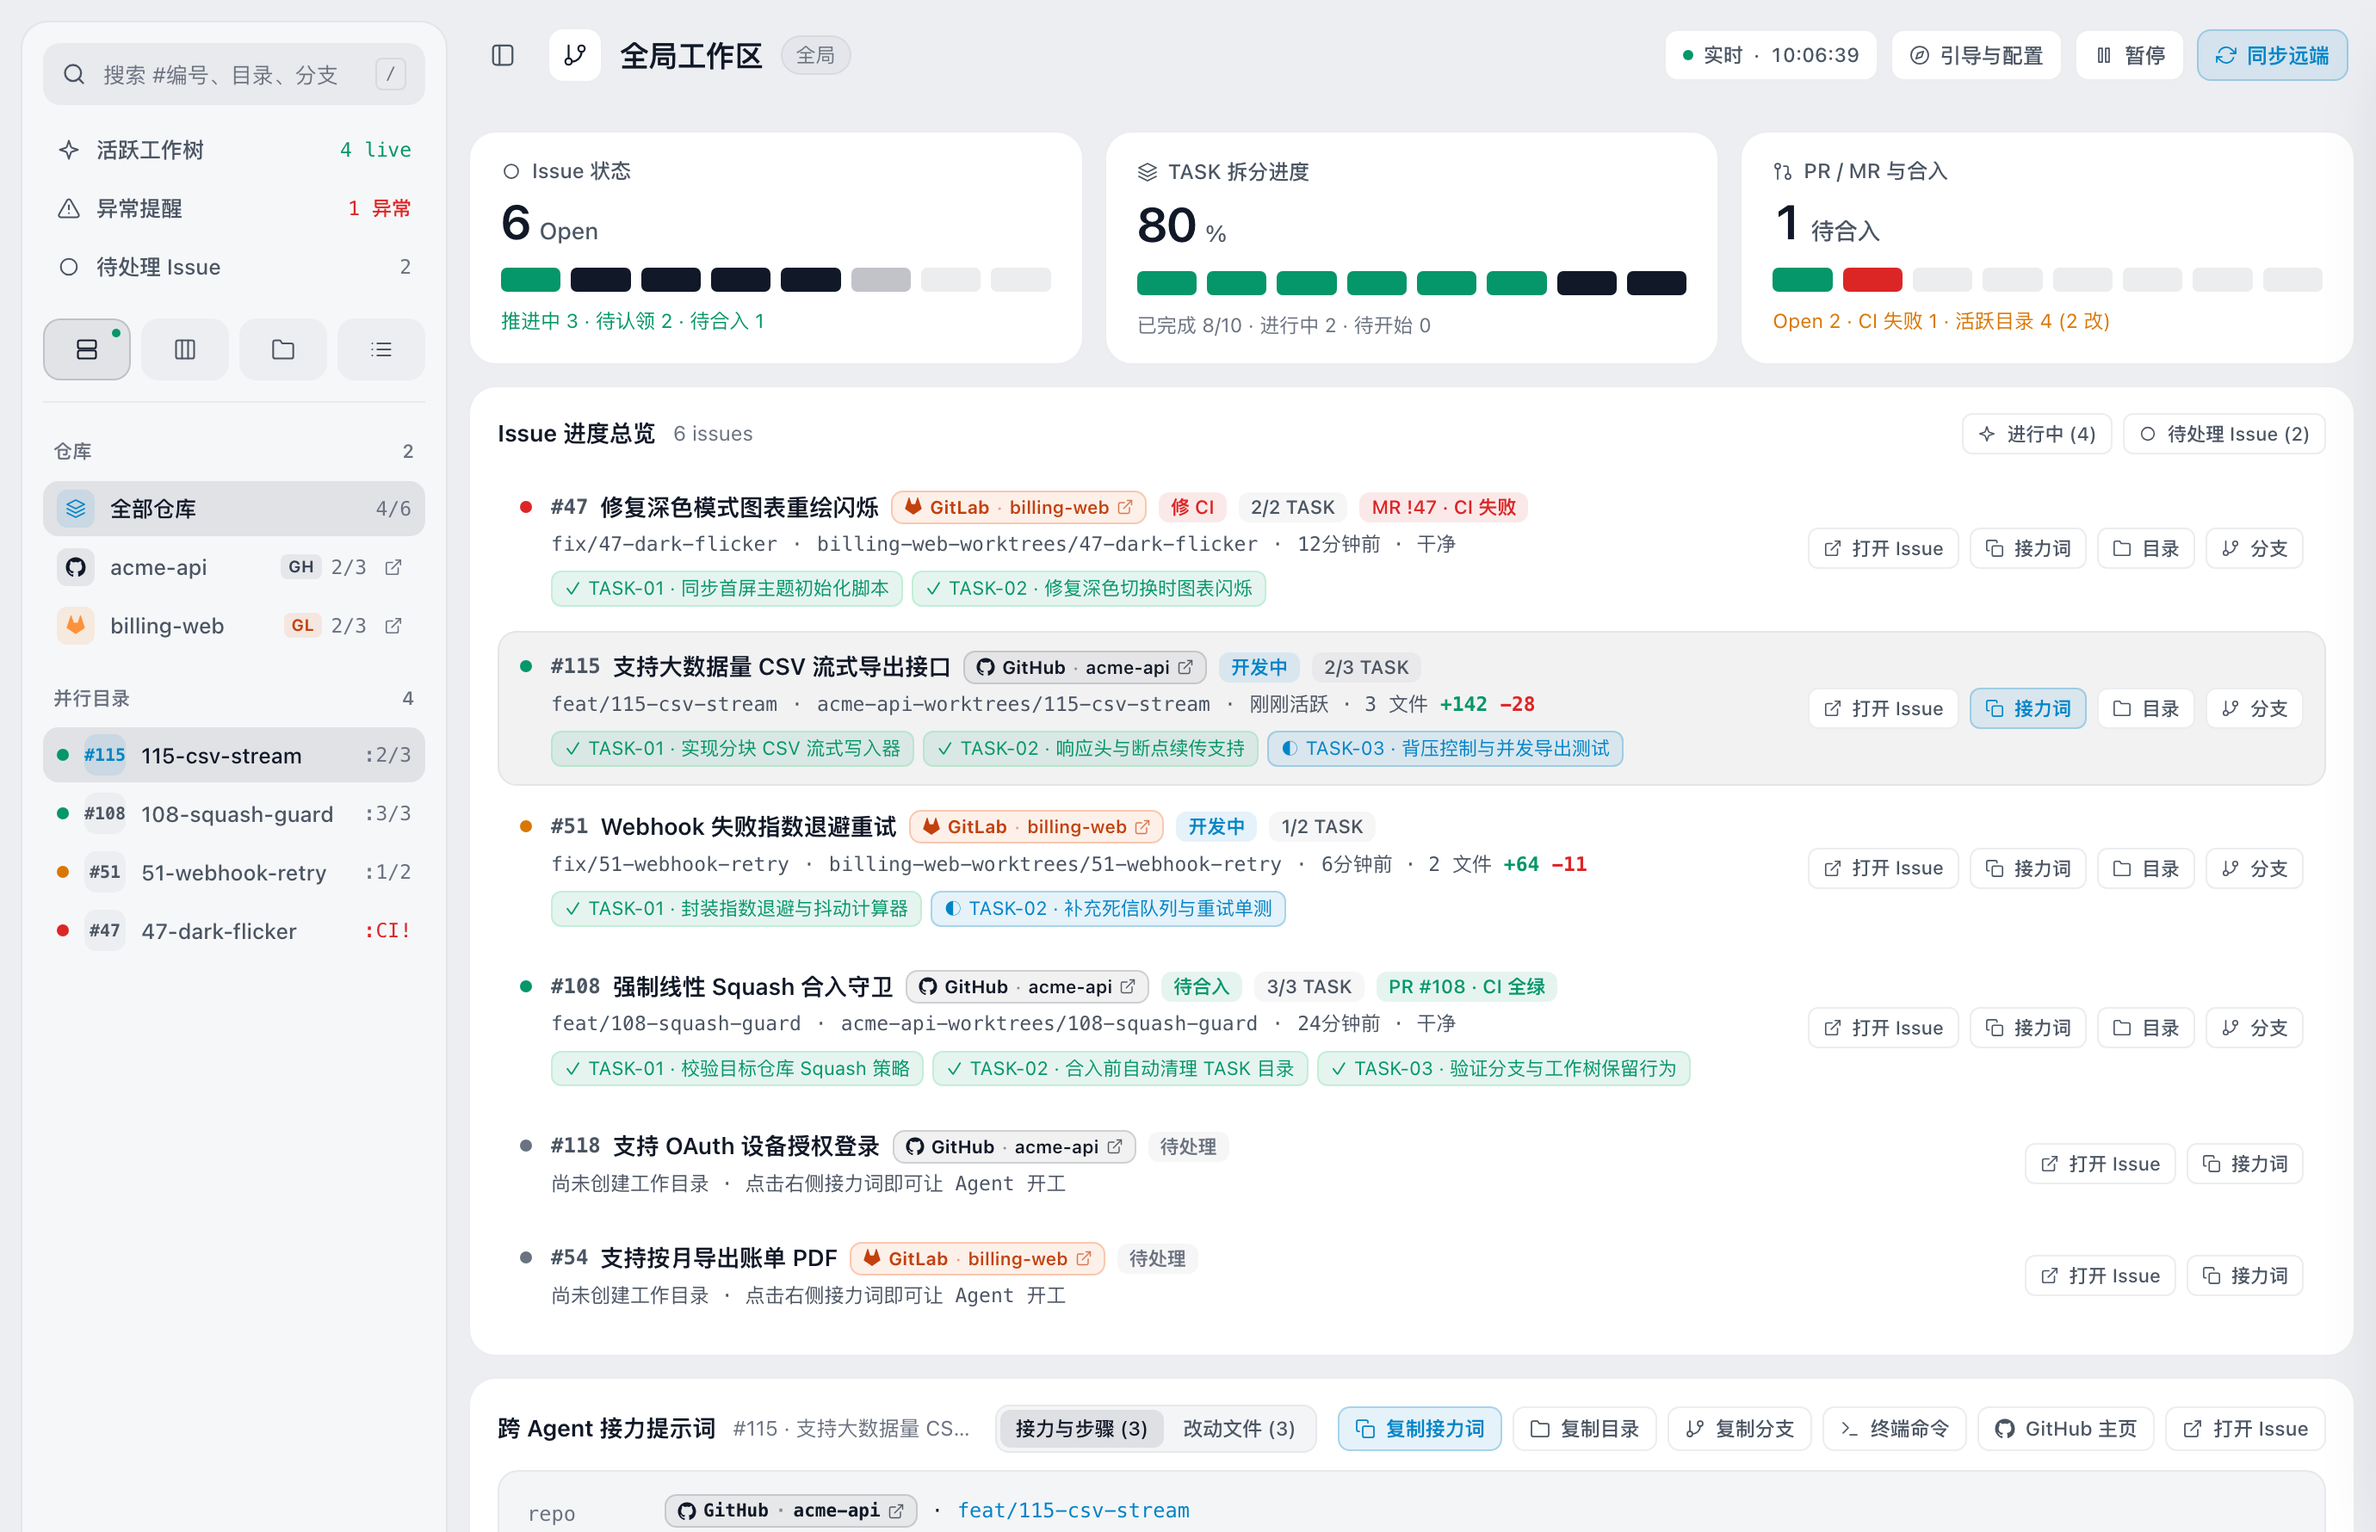
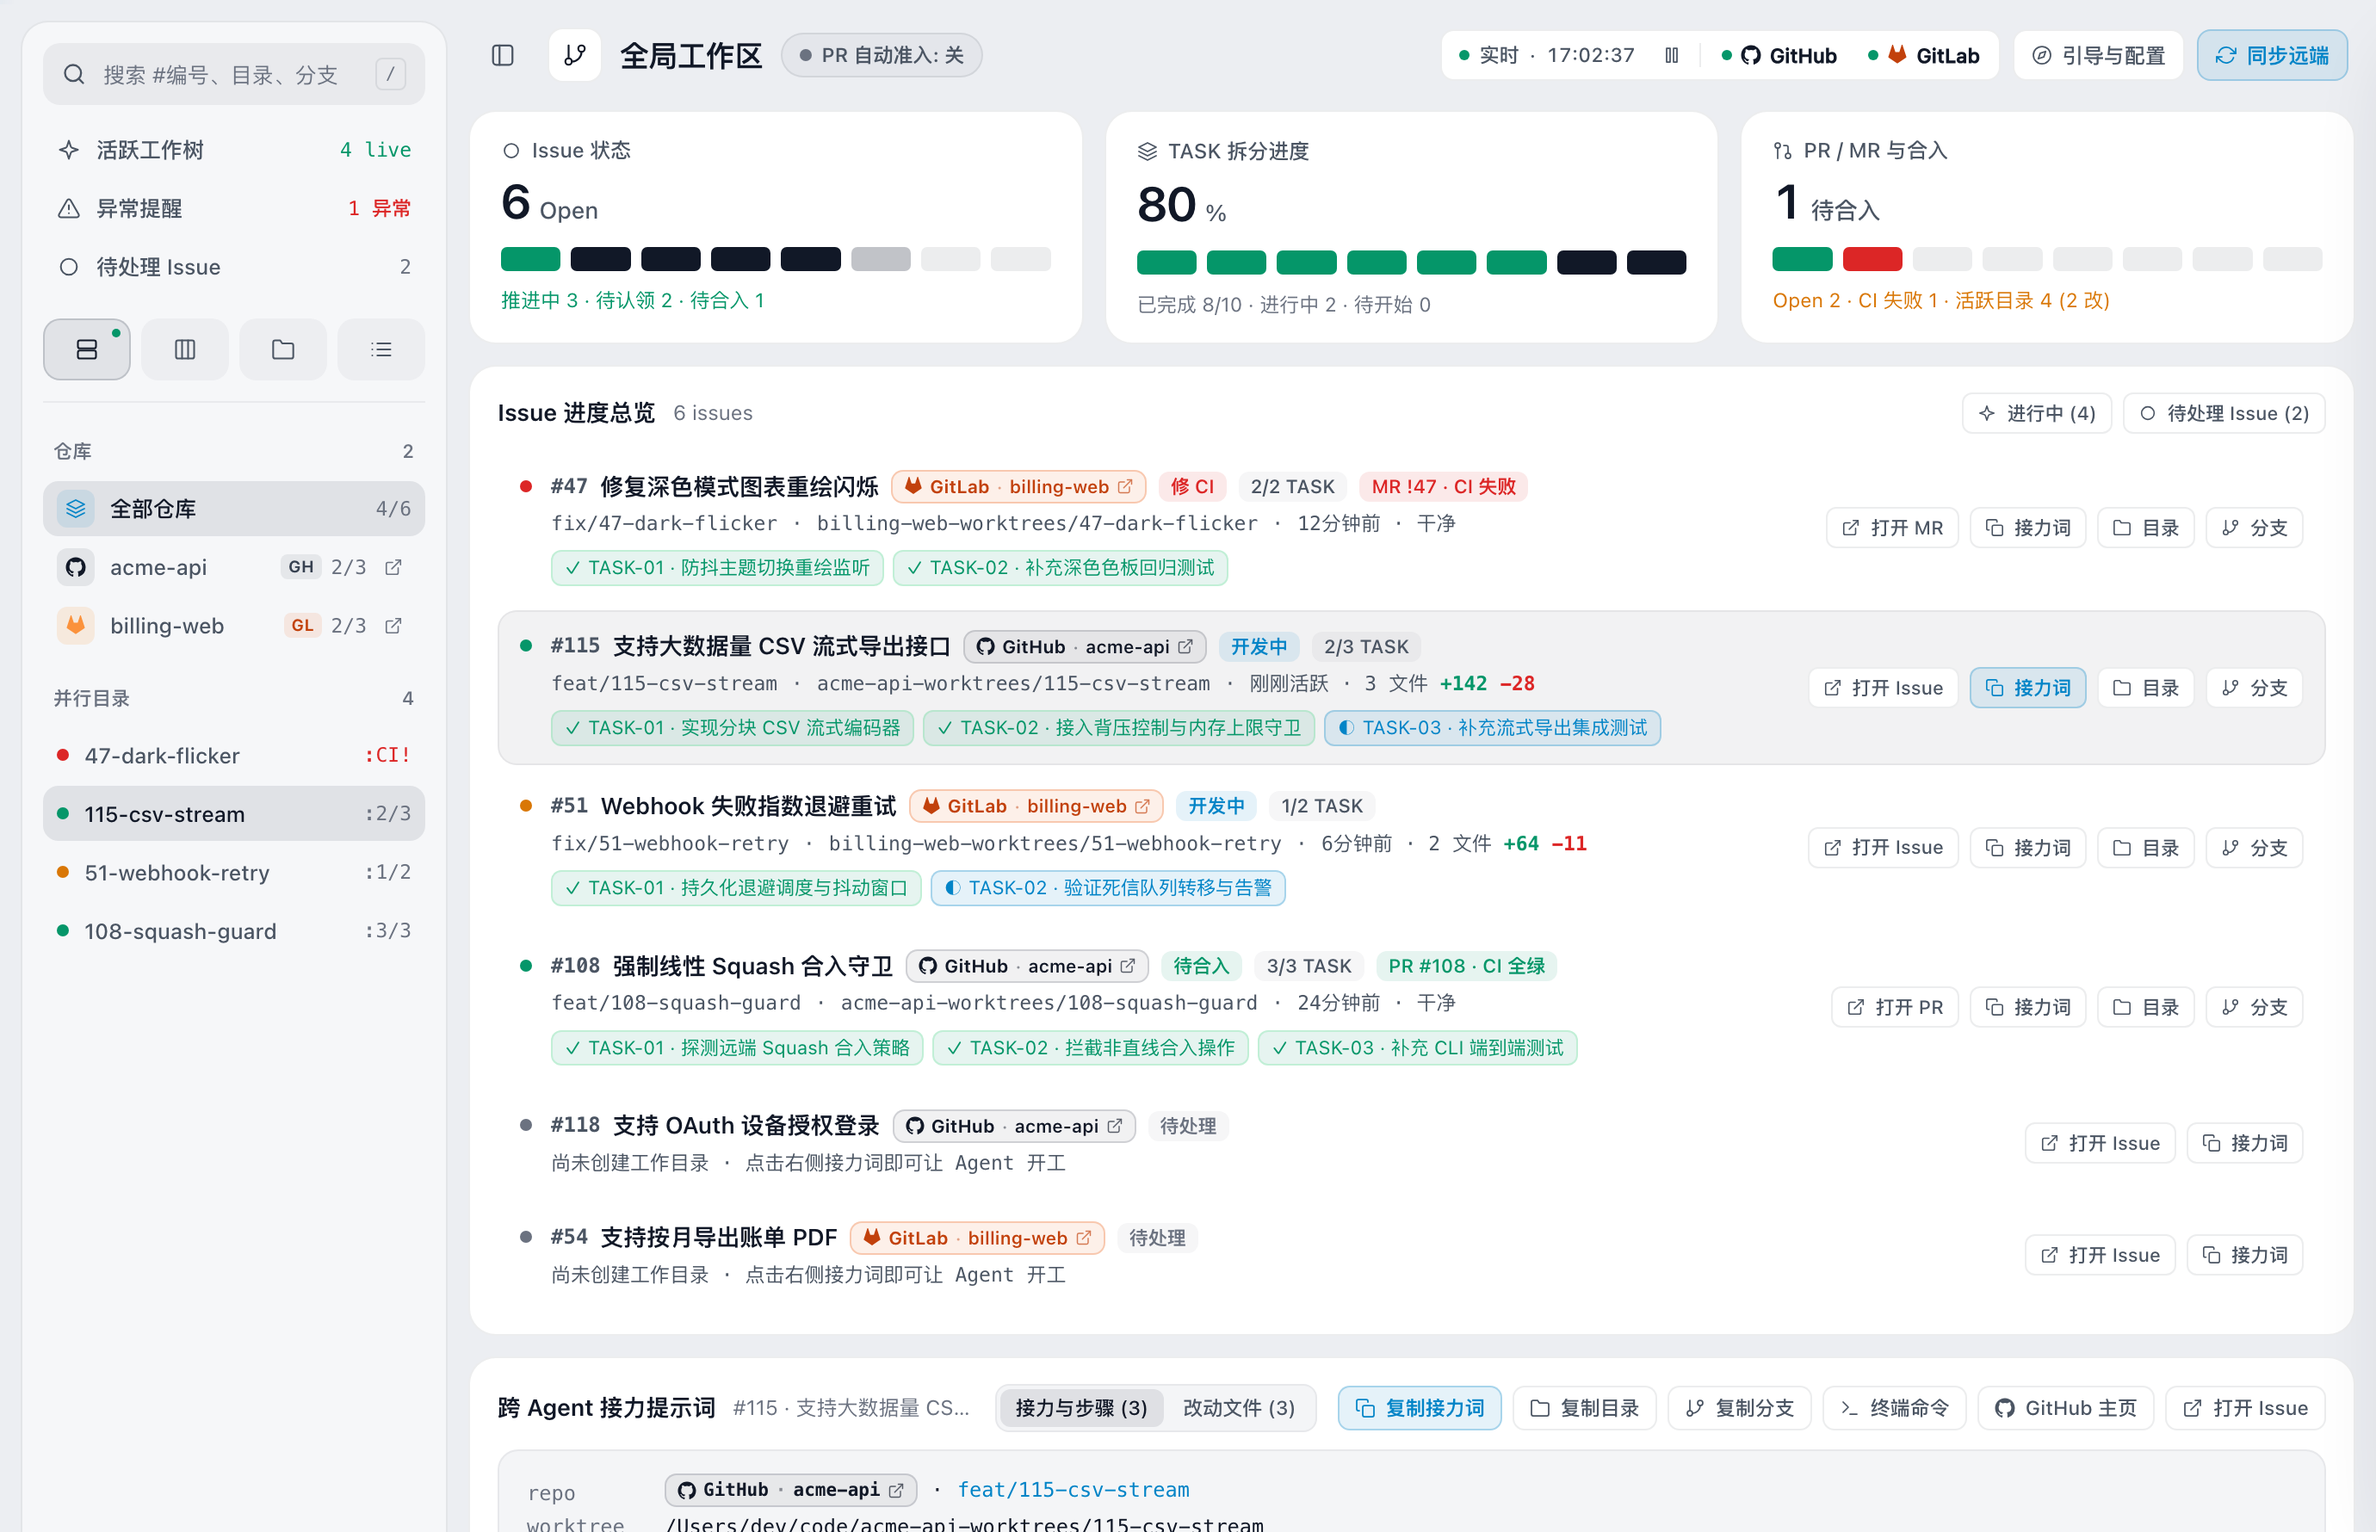
docs(readme): 更新最新看板截图与架构配图并同步主干规则模板
Task: 44-readme-readme-star-history/TASK-02
Refs: #44
Test: python3 scripts/release.py --check && python3 -m unittest discover -s tests -v — 84 passed

diff --git a/README.md b/README.md
@@ -155,6 +155,45 @@ idd board
 > [!NOTE]
 > `idd` 每 6 小时会在后台安全检查 `origin/main`，仅当本地技能仓库位于干净的 `main` 分支时自动快进同步（也可随时手动运行 `idd upgrade [--check]`）。需要卸载时执行 `idd uninstall`（或兜底命令 `curl -fsSL https://raw.githubusercontent.com/j-tide/idd/main/install.sh | sh -s -- --uninstall -y`），绝不影响你的任何业务仓库。
 
+<details>
+<summary><strong>可选：将 IDD 设为默认工作流</strong>（个人全局规则 / 项目 <code>AGENTS.md</code> 模板，安装脚本绝不自动写入）</summary>
+
+`install.sh` 仅挂载 Skill 与 `idd` 全局命令，`idd repo-init` 仅配置远端合入策略，**两者都不会自动创建或修改任何全局规则或项目 `AGENTS.md`**。如希望默认启用 IDD，可按需复制下方模板：
+
+### 方式一：个人全局默认（推荐，不污染项目仓库）
+
+将下方片段添加到你所使用的工具的全局规则文件中：
+
+- **Claude Code**：`~/.claude/CLAUDE.md`
+- **Codex**：`~/.codex/AGENTS.md`
+- **Antigravity**：全局用户规则（User Rules / `~/.gemini/GEMINI.md`）
+
+```markdown
+# 全局开发工作流约定（IDD）
+
+所有非只读代码、配置与文档开发任务默认使用全局 `idd` 技能（`~/.agents/skills/idd/SKILL.md`）。
+
+- **先建 Issue 再建 Worktree**：仓库已配置 GitHub / GitLab 远端且未关联 Issue 时，先运行 `idd issue create` 建单，再运行 `idd start <issue#>` 创建或复用独立 Worktree 与 `<type>/<id>-<slug>` 分支并立即推送 `origin`（禁止在 `main` 上直接修改）。
+- **逐 TASK 验证与立即推送**：在 `TASK/<issue>/TASK-XX-*.md` 中拆解范围与测试映射，逐项实现、运行真实测试并提交；每次提交后立即执行 `idd sync`（或 `git push -u origin HEAD`）推送到远端开发分支。
+- **PR/MR、CI 与直线合入**：完成后运行 `idd pr` / `idd mr` 与 `idd ci --watch`；验收通过（或已开启 `auto_merge` 开关）后运行 `idd land` 清理 `TASK/<issue>/` 并 Squash 直线合入 `main`。
+- **安全边界**：仅纯本地无远端仓库使用无编号 `<slug>` 流程；保护未提交修改，未经授权不强推 `main`、不擅自合入主线、不执行部署或生产变更。
+```
+
+### 方式二：项目级强制（团队共享）
+
+希望某仓库对所有协作者生效时，在仓库根目录 `AGENTS.md` 中加入以下约定（若团队同时使用 Claude Code，可在根目录 `CLAUDE.md` 写入 `@AGENTS.md` 引入），并建议配合 `idd repo-init --apply` 与远端 `main` 分支保护使用：
+
+```markdown
+# 协作开发规范（IDD）
+
+本仓库统一使用 `idd` 技能（Issue-Driven Development）进行开发交付：
+- 有 GitHub / GitLab 远端时，新需求先通过 `idd issue create` 建单，再通过 `idd start <issue#>` 在独立 Worktree 与 `<type>/<id>-<slug>` 分支中开发，禁止直接提交 `main`。
+- 在 `TASK/<issue>/` 拆解任务并记录真实测试验证；每完成一项即提交并运行 `idd sync` 推送。
+- 通过 `idd pr` / `idd mr` 发起合入并等待 CI 通过，验收后使用 `idd land` 清理临时 `TASK/` 目录并 Squash 直线合入 `main`。
+```
+
+</details>
+
 ---
 
 ## 支持生态

diff --git a/README.en.md b/README.en.md
@@ -155,6 +155,45 @@ idd board
 > [!NOTE]
 > `idd` safely checks `origin/main` in the background every 6 hours and fast-forwards only when your local skill clone is on a clean `main` branch (or run `idd upgrade [--check]` anytime). To uninstall cleanly without touching any project repository, run `idd uninstall` (or `curl -fsSL https://raw.githubusercontent.com/j-tide/idd/main/install.sh | sh -s -- --uninstall -y`).
 
+<details>
+<summary><strong>Optional: Set IDD as Your Default Workflow</strong> (Global User Rules / Project <code>AGENTS.md</code> templates — installer never writes these automatically)</summary>
+
+`install.sh` only symlinks the shared Skill and `idd` CLI, and `idd repo-init` only configures remote merge rules—**neither creates or edits any global rules or project `AGENTS.md` automatically**. If you want IDD active by default, copy one of the snippets below:
+
+### Option 1: Personal Global Default (Recommended — keeps project repos untouched)
+
+Add this snippet to your agent's user-level global instructions:
+
+- **Claude Code**: `~/.claude/CLAUDE.md`
+- **Codex**: `~/.codex/AGENTS.md`
+- **Antigravity**: Global User Rules (`~/.gemini/GEMINI.md` or User Rules settings)
+
+```markdown
+# Global Development Workflow (IDD)
+
+Default to the global `idd` skill (`~/.agents/skills/idd/SKILL.md`) for all non-read-only code, config, and documentation tasks.
+
+- **Issue first, then isolated worktree**: When a repo has a GitHub / GitLab remote and no linked Issue yet, run `idd issue create`, then `idd start <issue#>` to create or reuse an isolated worktree and `<type>/<id>-<slug>` branch pushed to `origin` (never edit directly on `main`).
+- **Per-TASK verification & immediate push**: Break work down under `TASK/<issue>/TASK-XX-*.md` with test mappings, verify with real tests, commit per task, and push right away via `idd sync` (or `git push -u origin HEAD`).
+- **PR/MR, CI & linear merge**: Run `idd pr` / `idd mr` and `idd ci --watch`; once approved (or when `auto_merge` is enabled), run `idd land` to clean `TASK/<issue>/` and Squash-merge linearly onto `main`.
+- **Safety boundaries**: Use the unnumbered `<slug>` flow only in local-only repos without remotes; protect uncommitted edits and never force-push or merge into `main`, deploy, or touch production without authorization.
+```
+
+### Option 2: Project-Level Enforcement (Shared with collaborators)
+
+To enforce IDD across all contributors in a repository, add the snippet below to the repository's root `AGENTS.md` (and put `@AGENTS.md` in `CLAUDE.md` if teammates use Claude Code), optionally paired with `idd repo-init --apply` and remote `main` branch protection:
+
+```markdown
+# Repository Workflow (IDD)
+
+This repository uses the `idd` skill (Issue-Driven Development) for all changes:
+- Create an Issue with `idd issue create`, then develop in an isolated worktree and `<type>/<id>-<slug>` branch via `idd start <issue#>`—never commit directly to `main`.
+- Track steps and real test results under `TASK/<issue>/`; commit per task and push with `idd sync`.
+- Open a PR/MR via `idd pr` / `idd mr`, wait for green CI, and land with `idd land` to remove temporary `TASK/` files and Squash-merge onto `main`.
+```
+
+</details>
+
 ---
 
 ## Supported Ecosystem

diff --git a/TASK/44-readme-readme-star-history/TASK-02-refresh-readme-assets-and-sync-main.md b/TASK/44-readme-readme-star-history/TASK-02-refresh-readme-assets-and-sync-main.md
@@ -1,0 +1,46 @@
+# TASK-02：更新最新看板截图与架构配图并同步主干规则模板
+
+- Issue: #44
+- Status: done
+- Depends on: TASK-01
+- Test: `python3 scripts/release.py --check`、`python3 -m unittest discover -s tests -v`、PNG 尺寸与视觉核对、SVG XML 校验
+
+## 任务范围
+- 将分支变基至最新 `origin/main`（含 `#39`、`#40`、`#42`）并在 `README.md` / `README.en.md` 保留 `#39` 的可选默认工作流规则模板
+- 基于最新 `scripts/board_ui.py` 重新截取 4 张中英文暗/亮主题看板图（`assets/board-{zh,en}-{dark,light}.png`），展示顶栏 GitHub/GitLab 连接状态、PR 自动准入开关、移除冗余全局标签、动态打开 PR/MR 与打开 Issue 按钮等最新 UI
+- 刷新 4 张架构流程图（`assets/workflow-{zh,en}-{dark,light}.svg`）以体现原型对齐（`idd preview`）与可控自动准入能力
+
+## 验收标准
+
+- [x] 变基至最新 `origin/main`，中英文 README 完整保留 `#39` 可选默认工作流规则模板
+- [x] 4 张 `assets/board-{zh,en}-{dark,light}.png`（`2760 x 1780`）均体现最新 `board_ui.py` 界面，无骨架屏、弹窗遮挡或文案重叠
+- [x] 4 张 `assets/workflow-{zh,en}-{dark,light}.svg` 合法且体现最新流程
+- [x] `python3 scripts/release.py --check` 与 `python3 -m unittest discover -s tests -v` 全量通过
+
+## 实现注意事项
+
+- 使用独立临时目录与 Headless Chrome 捕获（2x DPI、`1380x890` → `2760x1780`），不向业务仓库提交临时脚本
+- 使用只读视觉子代理核对 4 张新截图的内容、主题与语言一致性
+
+## 验证方式
+
+- Command: `python3 scripts/release.py --check && python3 -m unittest discover -s tests -v`
+- Expected: 版本一致性校验通过，全部单元测试通过，PNG 尺寸为 `2760 x 1780` 且 SVG XML 合法
+
+## 执行结果
+
+- Outcome: passed
+- Notes: 已变基至最新 `origin/main` 并保留 `#39` 规则模板；4 张看板截图已基于最新 `board_ui.py` 重新截取并通过视觉核对，4 张 SVG 流程图已刷新，版本校验与 84 项单元测试全部通过。
+
+### 当前阻塞
+
+无。
+
+### 验证记录
+
+| 日期 / 修订 | 命令或操作 | 实际结果 | 证据 |
+| --- | --- | --- | --- |
+| 2026-11-26 | Headless Chrome 截图 + `file assets/board-*.png` + 只读视觉核对 | passed（4 张均 `2760 x 1780`，`ALL CLEAN`） | 顶栏连接状态、`PR 自动准入: 关`、动态 `打开 PR/MR` 与 `#115` 接力控制台均正常渲染 |
+| 2026-11-26 | `python3 -c 'import xml.etree.ElementTree as ET...'` | passed（4 个 SVG XML 合法、`#39` 模板已保留） | 本地工作树校验输出 `SVGs valid & #39 preserved` |
+| 2026-11-26 | `python3 scripts/release.py --check` | passed（`v0.0.3` 一致性校验通过） | `SKILL.md == README.md == README.en.md == idd --version` |
+| 2026-11-26 | `python3 -m unittest discover -s tests -v` | passed（84 tests in 182.068s, OK） | 含 `test_repo_version_consistency` 与 `test_monitor_and_board` |
